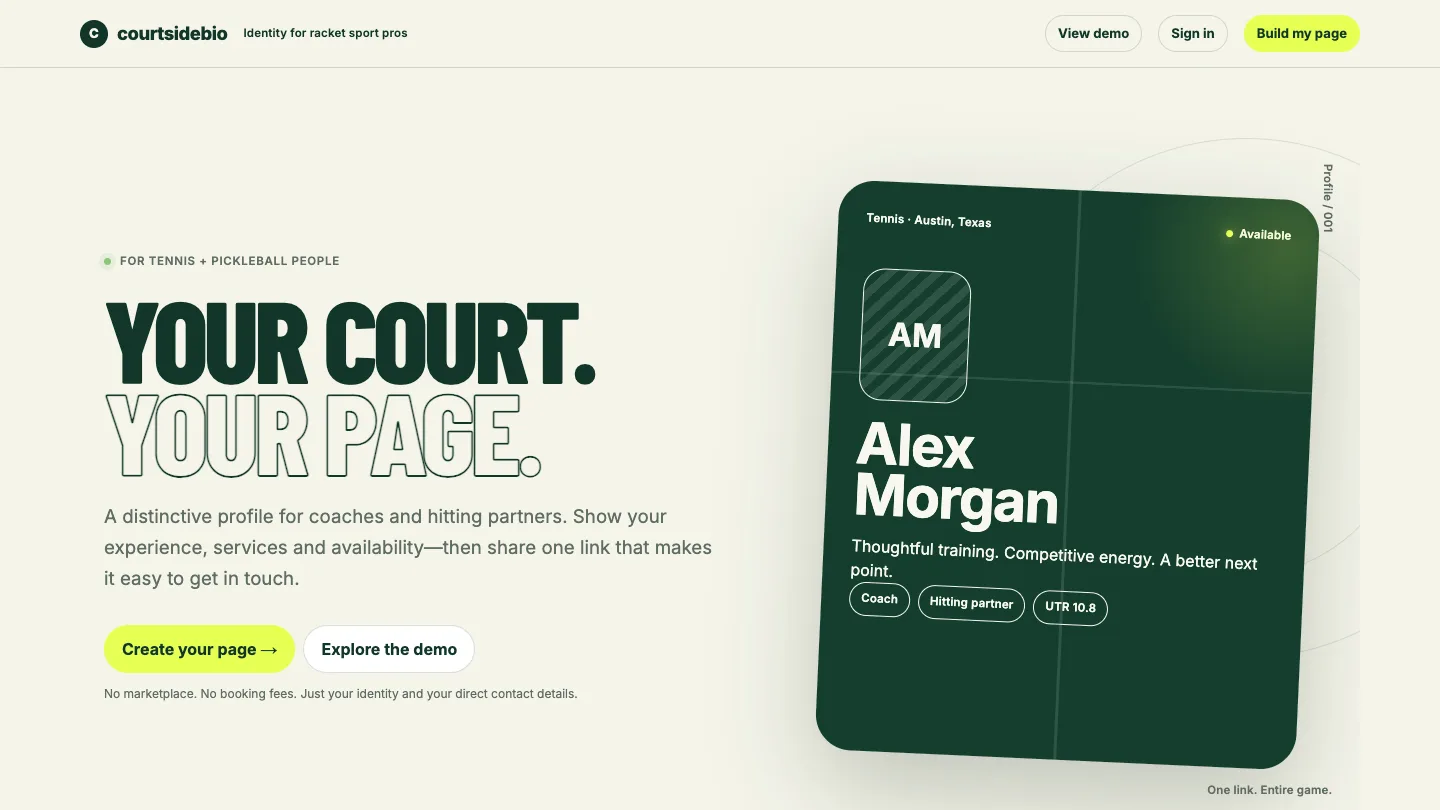
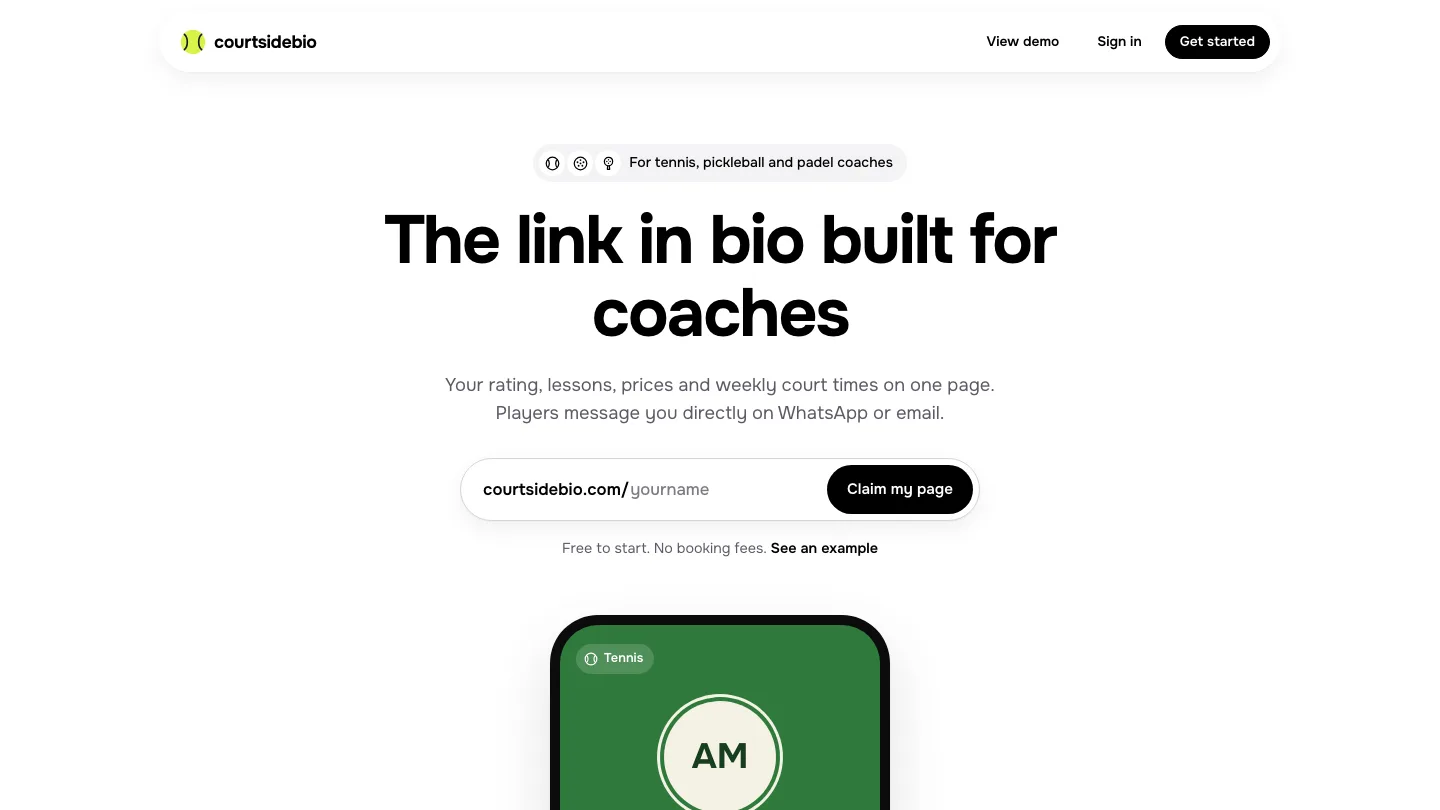
Rewrite the courtsidebio write-up with fresh screenshots
- Frame it around the gap for independent racket sports coaches and the SaaS attempt
- Replace the screenshots with the updated UI and add a features shot
- Link to the live site

diff --git a/content/products/courtsidebio.md b/content/products/courtsidebio.md
@@ -1,23 +1,48 @@
 ---
 title: "courtsidebio"
-description: "A link-in-bio tool for tennis, pickleball, and padel coaches."
+description: "The link in bio built for tennis, pickleball and padel coaches."
+url: "https://court-side-bio.vercel.app"
 status: "wip"
 tags: ["Coaching", "Creator tools"]
 screenshots:
   - src: "/images/products/courtsidebio/home.webp"
-    alt: "courtsidebio landing page with the headline Your court, your page, beside a sample coach profile card"
-    caption: "The landing page, with a sample coach card."
+    alt: "courtsidebio landing page with the headline The link in bio built for coaches and a field to claim a courtsidebio.com page name"
+    caption: "The landing page. Claim a name and the page is yours."
   - src: "/images/products/courtsidebio/profile.webp"
-    alt: "A sample courtsidebio coach profile showing name, location, a short bio, rating and playing background"
-    caption: "A sample profile, the page a coach shares."
+    alt: "A sample courtsidebio profile for a tennis coach in Austin, with UTR rating, starting price, next open slot and a Message button"
+    caption: "A sample coach page, the link that goes in the bio."
+  - src: "/images/products/courtsidebio/features.webp"
+    alt: "courtsidebio feature section showing a coach's UTR, DUPR and Playtomic ratings and a list of open court times"
+    caption: "Ratings up front, and court times players can tap to ask for."
 ---
 
-## Why I built it
+Link in bio took off as a product with creators. Once it did, the category split into niches. There are now link-in-bio tools built just for salons, for wellness professionals and for fitness influencers, each shaped around what that audience needs to show.
 
-Independent coaches need one link they can send anywhere. I’m building courtsidebio for tennis, pickleball, and padel coaches who want a player to see what they teach, when they’re usually free, and how to reach them.
+Racket sports coaching didn't have one. courtsidebio is the link in bio built for tennis, pickleball and padel coaches.
 
-## What it does
+## Why independent coaches
 
-A coach sets up one profile and drops the link in a social bio or a chat.
+Most sports software is built for clubs. It handles scheduling, memberships and court bookings, and it's priced for an organisation with a front desk. That works for a club. It doesn't help the coach who teaches at three different courts, finds students through Instagram and WhatsApp, and needs to fill their week without paying for software built for someone else.
 
-I didn’t build a booking calendar. The profile shows a coach’s typical availability, which is enough for a player to ask a specific question, like whether Thursday at five works. The coach replies over email or WhatsApp and sorts out the rest. Coaches already run their schedules their own way, and I didn’t want courtsidebio to get in the middle of that.
+What that coach needs is simpler: one page that answers every question a player asks before booking, and a way to grow without a big monthly bill.
+
+## What goes on the page
+
+Every section answers something players actually ask.
+
+- **Level.** UTR, DUPR, NTRP or Playtomic ratings sit at the top, next to where the coach played and how long they've coached. Each rating is marked as self-reported, with a link to the source.
+- **Lessons and prices.** Private coaching, hitting sessions and group clinics, each with a price and a length.
+- **What players say.** A few words from current students.
+- **Court times.** The coach sets weekly windows once. Players see the next seven days in the coach's time zone and tap a time to ask for it.
+
+Tapping a time opens WhatsApp or email with the message already written: "I found your page and would like a hitting session on Tuesday at 6:00 PM. Are you free?" Coaches pick a grass, clay, hard court or night theme, so the page looks like their sport. Setup takes about ten minutes.
+
+## What I left out
+
+There's no booking calendar, no marketplace and no booking fee. Coaches already run their schedules their own way, and I didn't want to get in the middle of that. Showing typical court times is enough for a player to ask a specific question, and the coach confirms over the channel they already use. Nobody sits in between, and nobody takes a cut.
+
+## Building a SaaS, not just a product
+
+courtsidebio is also my first real attempt at a SaaS. Unlike my other projects, it has to work for people I'll never talk to. A coach has to find it, set up a page without help and keep it current, and the page has to bring them enough students to be worth it.
+
+It's free to start, and the first test is simple: will coaches put the link in their bio and leave it there?
